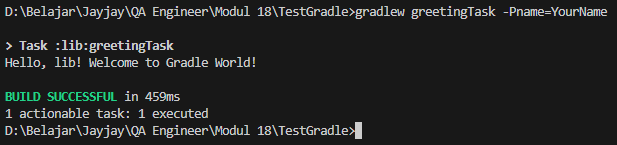
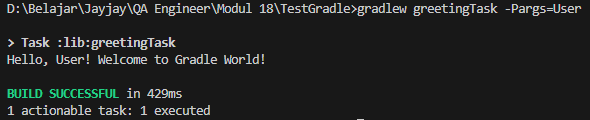
update gradle custom task

diff --git a/README.md b/README.md
@@ -37,6 +37,6 @@ git push -u origin master
 ## Tujuan
 Membuat projek gradle sederhana
 
-Command: ./gradlew greetingTask -Pname=YourName <br/>
+Command: gradlew greetingTask -Pargs=User <br/>
 Hasil run: <br/>
 ![alt text](https://github.com/aufarr16/testGradle/blob/master/hasil%20run%20gradle%20project.png?raw=true)
